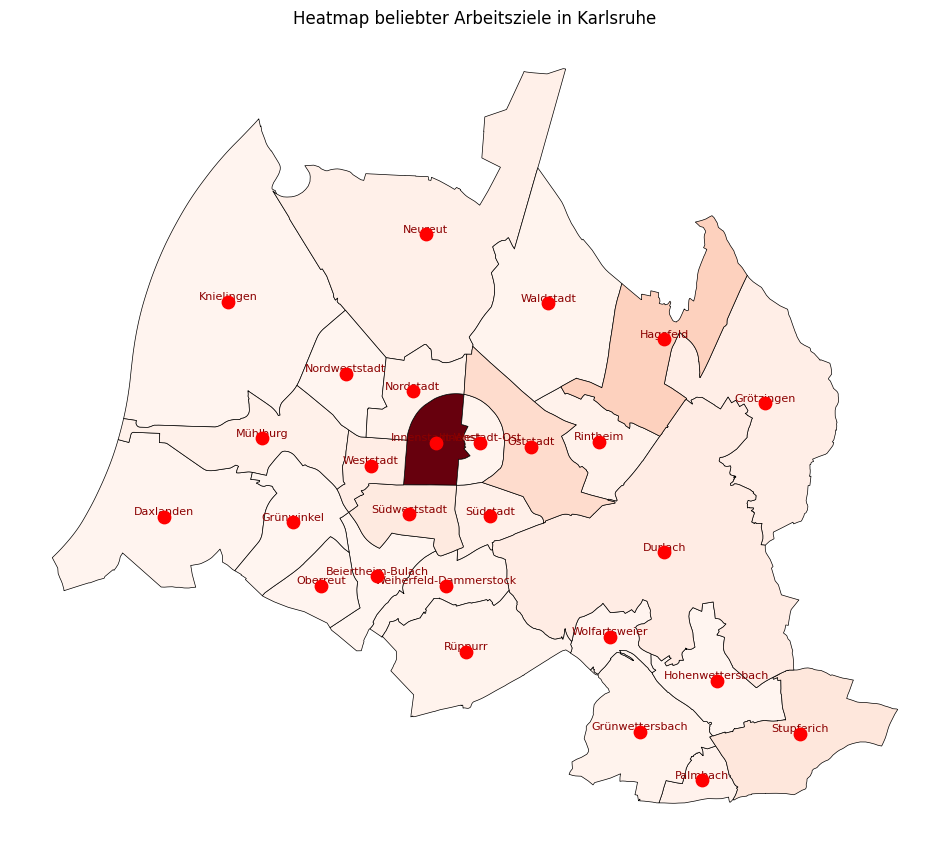
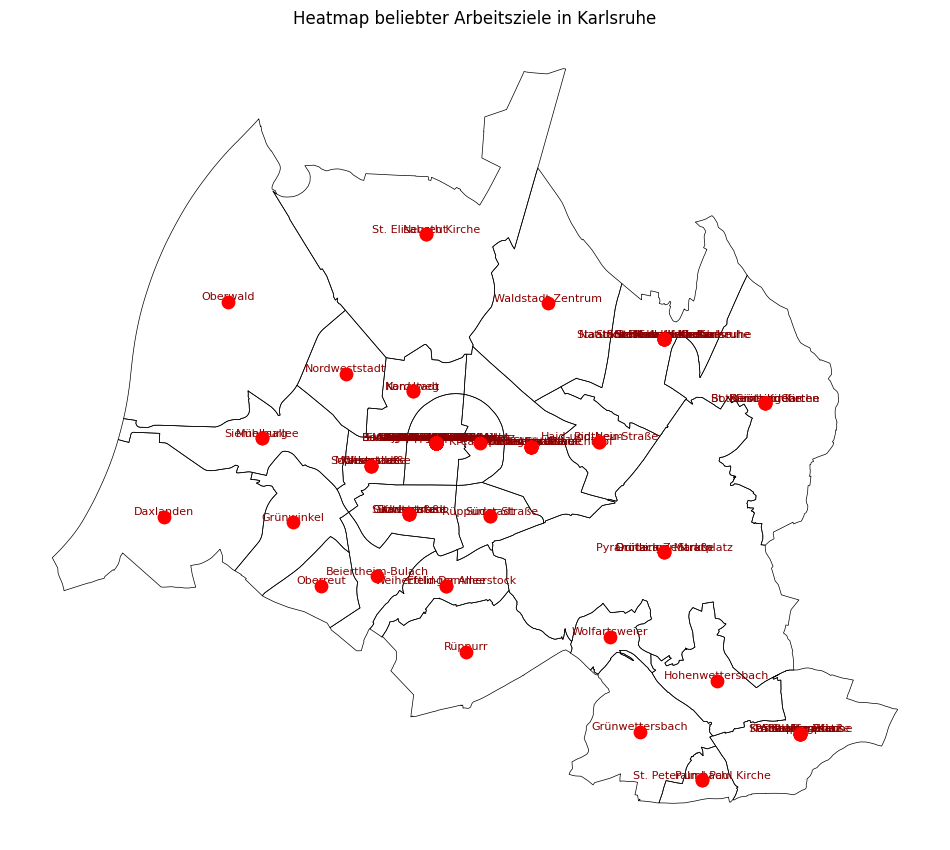
heatmap improvements

diff --git a/6_Part 3 Analysis/visualization.py b/6_Part 3 Analysis/visualization.py
@@ -14,7 +14,7 @@ PNG_FOLDER = os.path.join(BASE_FOLDER, "png-files")
 
 # === Pfade für Heatmaps ===
 SHAPEFILE_PATH = os.path.join("2_Shapefile folder", "Stadtteile_Karlsruhe.shp")
-HEATMAP_PNG_PATH = os.path.join(PNG_FOLDER, "Stadtteilbeziehungen_Heatmap.png")
+HEATMAP_STADTBEZIEHUNGEN_PATH = os.path.join(PNG_FOLDER, "Stadtteilbeziehungen_Heatmap.png")
 HEATMAP_ARBEITSZIELE_PATH = os.path.join(PNG_FOLDER, "Heatmap_Arbeitsziele.png")
 
 # === Eingabepfad ===
@@ -85,7 +85,6 @@ weg_counts = (
     .reset_index(name="Anzahl Wege")
     .sort_values(by="Anzahl Wege", ascending=False)
 )
-
 mask_häufig = weg_counts["Anzahl Wege"] >= 20
 weg_counts_häufig = weg_counts[mask_häufig]
 weg_counts_selten = weg_counts[~mask_häufig]
@@ -97,68 +96,83 @@ if restliche_wege_anzahl > 0:
         output_df,
         pd.DataFrame({"Stadtteil Start": ["Restliche Wege"], "Stadtteil Ziel": [""], "Anzahl Wege": [restliche_wege_anzahl]})
     ], ignore_index=True)
-
 output_df.to_csv(OUTPUT_CSV_PATH, index=False, encoding='utf-8-sig')
 output_df.to_excel(OUTPUT_XLSX_PATH, index=False)
 format_excel(OUTPUT_XLSX_PATH)
 
-# === 1.1 Heatmap der Stadtteilbeziehungen ===
-# Load shapefile
+# === Shapefile laden und Grunddaten für Heatmaps ===
 try:
     gdf = gpd.read_file(SHAPEFILE_PATH)
 except Exception as e:
     print(f"Fehler beim Laden der Shapedatei: {e}")
-else:
-    # District name column detection
+    gdf = None
+
+if gdf is not None:
+    # District name detection
     string_cols = gdf.select_dtypes(include=['object']).columns.tolist()
     possible = [col for col in string_cols if 'name' in col.lower() or 'stadtteil' in col.lower()]
     name_col = possible[0] if possible else string_cols[0]
     gdf['district_name'] = gdf[name_col]
-
-    # Compute centroids
+    # Centroids
     gdf['centroid'] = gdf.geometry.centroid
+    centroid_dict = dict(zip(gdf['district_name'], gdf['centroid']))
 
-    # Load relationship data
-    rel_df = pd.read_csv(OUTPUT_CSV_PATH)
-    rel_df = rel_df.dropna(subset=['Stadtteil Start', 'Stadtteil Ziel'])
+    # === 1.1 Heatmap der Stadtteilbeziehungen ===
+    rel_df = output_df.dropna(subset=['Stadtteil Start', 'Stadtteil Ziel'])
     rel_df = rel_df[(rel_df['Stadtteil Start'] != 'Restliche Wege') & (rel_df['Stadtteil Ziel'] != '')]
-
     if rel_df.empty:
         print('Keine Stadtteilbeziehungen zum Anzeigen.')
     else:
-        # Compute flow sum per district for shading
         flow_start = rel_df.groupby('Stadtteil Start')['Anzahl Wege'].sum()
         flow_target = rel_df.groupby('Stadtteil Ziel')['Anzahl Wege'].sum()
         flow_total = flow_start.add(flow_target, fill_value=0)
         gdf['flow_sum'] = gdf['district_name'].map(flow_total).fillna(0)
-
         max_count = rel_df['Anzahl Wege'].max()
         fig, ax = plt.subplots(figsize=(12, 12))
-        # Plot choropleth shading
+        # Choropleth
         gdf.plot(ax=ax, column='flow_sum', cmap='Reds', edgecolor='black', linewidth=0.5)
-
-        # Plot arrows with increased width
-        centroid_dict = dict(zip(gdf['district_name'], gdf['centroid']))
+        # Pfeile
         for _, row in rel_df.iterrows():
             start = row['Stadtteil Start']
             target = row['Stadtteil Ziel']
             count = row['Anzahl Wege']
             if start in centroid_dict and target in centroid_dict:
-                x_start, y_start = centroid_dict[start].x, centroid_dict[start].y
-                x_end, y_end = centroid_dict[target].x, centroid_dict[target].y
-                # Increased arrow width
+                x0, y0 = centroid_dict[start].x, centroid_dict[start].y
+                x1, y1 = centroid_dict[target].x, centroid_dict[target].y
                 width = 1 + (count / max_count) * 8
-                ax.annotate('', xy=(x_end, y_end), xytext=(x_start, y_start),
-                            arrowprops=dict(arrowstyle='->', color='darkred', linewidth=width, alpha=0.7))
-        # Label districts
+                ax.annotate('', xy=(x1, y1), xytext=(x0, y0), arrowprops=dict(arrowstyle='->', color='darkred', linewidth=width, alpha=0.7))
+        # Beschriftung
         for _, row in gdf.iterrows():
             x, y = row['centroid'].x, row['centroid'].y
-            name = row['district_name']
-            ax.text(x, y, name, horizontalalignment='center', fontsize=8)
-
+            ax.text(x, y, row['district_name'], ha='center', fontsize=8)
         ax.set_title('Heatmap der Stadtteilbeziehungen in Karlsruhe')
         ax.axis('off')
-        plt.savefig(HEATMAP_PNG_PATH, bbox_inches='tight')
+        plt.savefig(HEATMAP_STADTBEZIEHUNGEN_PATH, bbox_inches='tight')
+        plt.close()
+        print(f'✅ Stadtteilbeziehungen-Heatmap erstellt: {HEATMAP_STADTBEZIEHUNGEN_PATH}')
+
+    # === 1.2 Heatmap beliebter Arbeitsziele ===
+    arbeit_df = df[df['Zweck'] == 'Arbeit'].dropna(subset=['Zielort', 'Stadtteil Ziel'])
+    zielort_counts = arbeit_df['Zielort'].value_counts()
+    popular_zielorte = zielort_counts[zielort_counts >= 3].index.tolist()
+    if not popular_zielorte:
+        print('Keine häufigen Arbeitsziele zum Anzeigen.')
+    else:
+        fig2, ax2 = plt.subplots(figsize=(12, 12))
+        # Kein Schraffieren der Stadtteile
+        gdf.plot(ax=ax2, facecolor='none', edgecolor='black', linewidth=0.5)
+        # Punkte und Beschriftung
+        for zielort in popular_zielorte:
+            # Ersten Datensatz zum Zielort auswählen
+            entry = arbeit_df[arbeit_df['Zielort'] == zielort].iloc[0]
+            district = entry['Stadtteil Ziel']
+            if district in centroid_dict:
+                x, y = centroid_dict[district].x, centroid_dict[district].y
+                ax2.scatter(x, y, color='red', s=80, zorder=5)
+                ax2.text(x, y, zielort, ha='center', va='bottom', fontsize=8, color='darkred')
+        ax2.set_title('Heatmap beliebter Arbeitsziele in Karlsruhe')
+        ax2.axis('off')
+        plt.savefig(HEATMAP_ARBEITSZIELE_PATH, bbox_inches='tight')
         plt.close()
 
 # === 2. Stadtteile-Ranking ===
@@ -391,25 +405,5 @@ spitzenstunde_df = pd.DataFrame({"Spitzenstunde": [zeitfenster]})
 spitzenstunde_df.to_csv(SPITZENSTUNDE_CSV_PATH, index=False, encoding='utf-8-sig')
 spitzenstunde_df.to_excel(SPITZENSTUNDE_XLSX_PATH, index=False)
 format_excel(SPITZENSTUNDE_XLSX_PATH)
-
-# === 16. Heatmap beliebter Arbeitsziele
-# Filter für Arbeitszweck
-arbeit_df = df[df['Zweck'] == 'Arbeit']
-arbeit_counts = arbeit_df['Stadtteil Ziel'].value_counts()
-popular_targets = arbeit_counts[arbeit_counts >= 3].index.tolist()
-if not popular_targets:
-    print('Keine häufigen Arbeitsziele zum Anzeigen.')
-else:
-    fig2, ax2 = plt.subplots(figsize=(12, 12))
-    gdf.plot(ax=ax2, column='flow_sum', cmap='Reds', edgecolor='black', linewidth=0.5)
-    for target in popular_targets:
-        if target in centroid_dict:
-            x, y = centroid_dict[target].x, centroid_dict[target].y
-            ax2.scatter(x, y, color='red', s=80, zorder=5)
-            ax2.text(x, y, target, horizontalalignment='center', verticalalignment='bottom', fontsize=8, color='darkred')
-    ax2.set_title('Heatmap beliebter Arbeitsziele in Karlsruhe')
-    ax2.axis('off')
-    plt.savefig(HEATMAP_ARBEITSZIELE_PATH, bbox_inches='tight')
-    plt.close()
 
 print("✅ Alle Dateien erfolgreich erstellt und gespeichert.")
